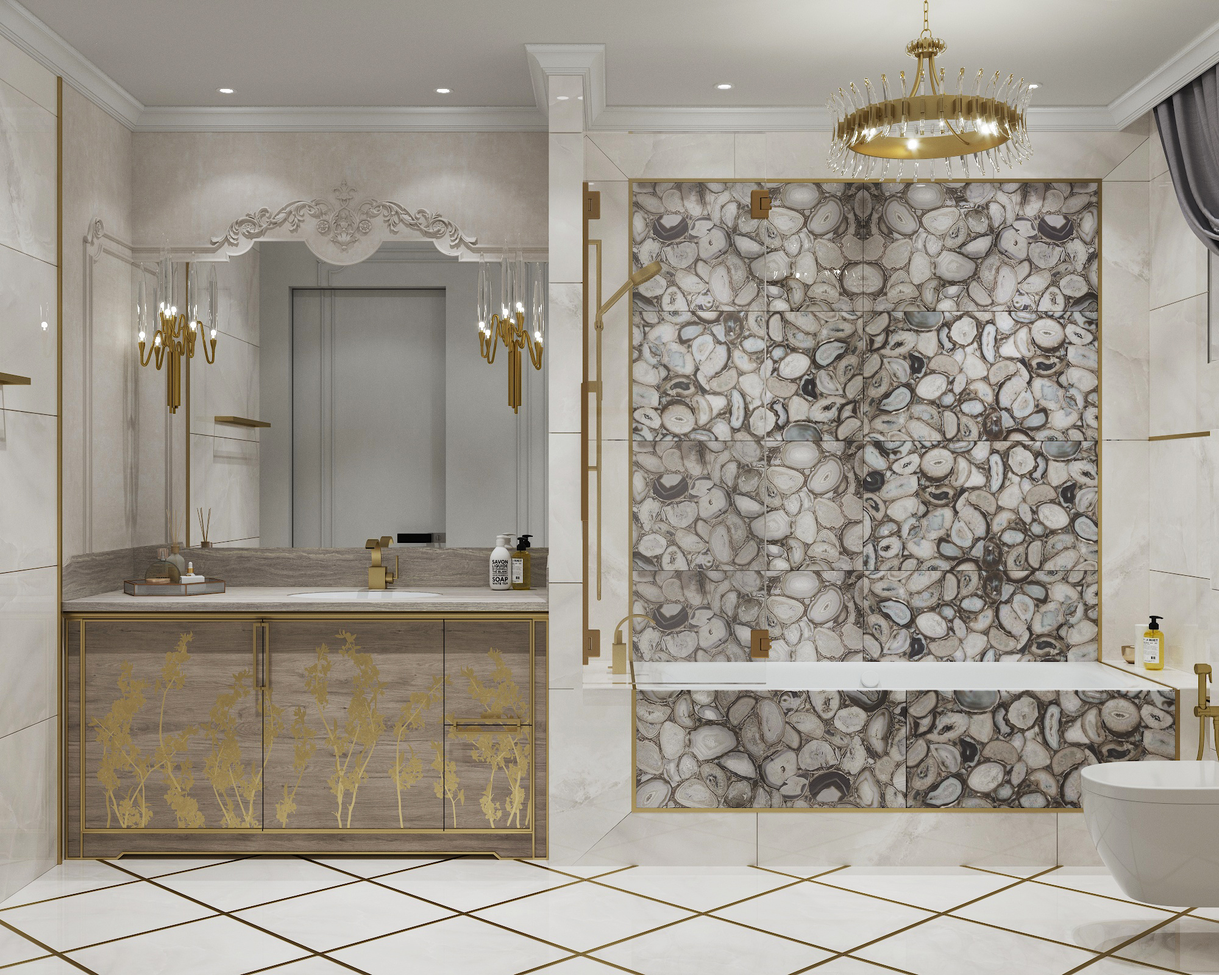
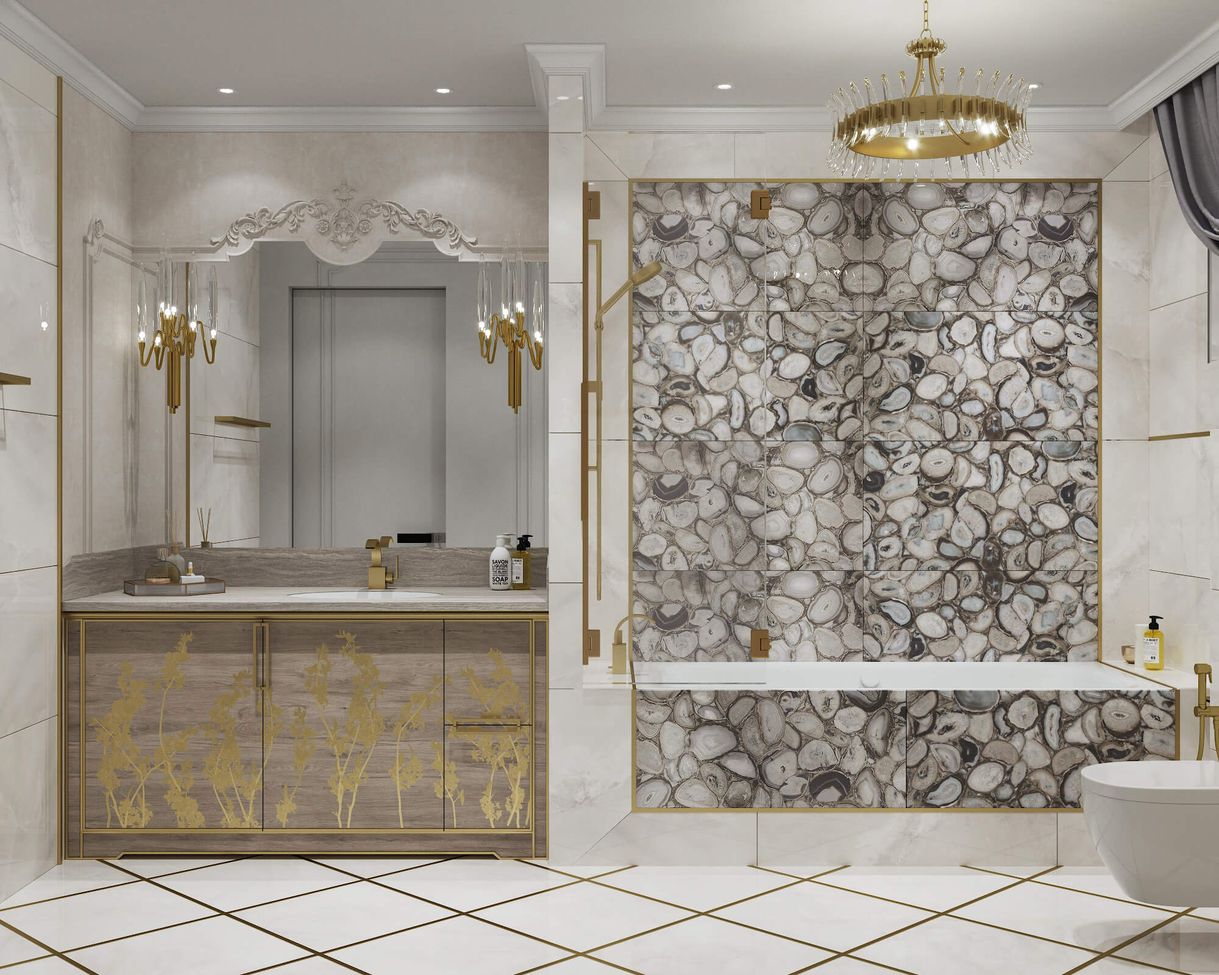
optimize photos

diff --git a/src/data/projects.js b/src/data/projects.js
@@ -44,9 +44,9 @@ export const projectsData = [
       aspect: 'aspect-[3/4]',
       delay: 'delay-100',
       images: [
-        '/images/modernHouse/8.png',
-        '/images/modernHouse/6.png',
-        '/images/modernHouse/9.png',
+        '/images/modernHouse/8.jpg',
+        '/images/modernHouse/6.jpg',
+        '/images/modernHouse/9.jpg',
       ]
     },
     {
